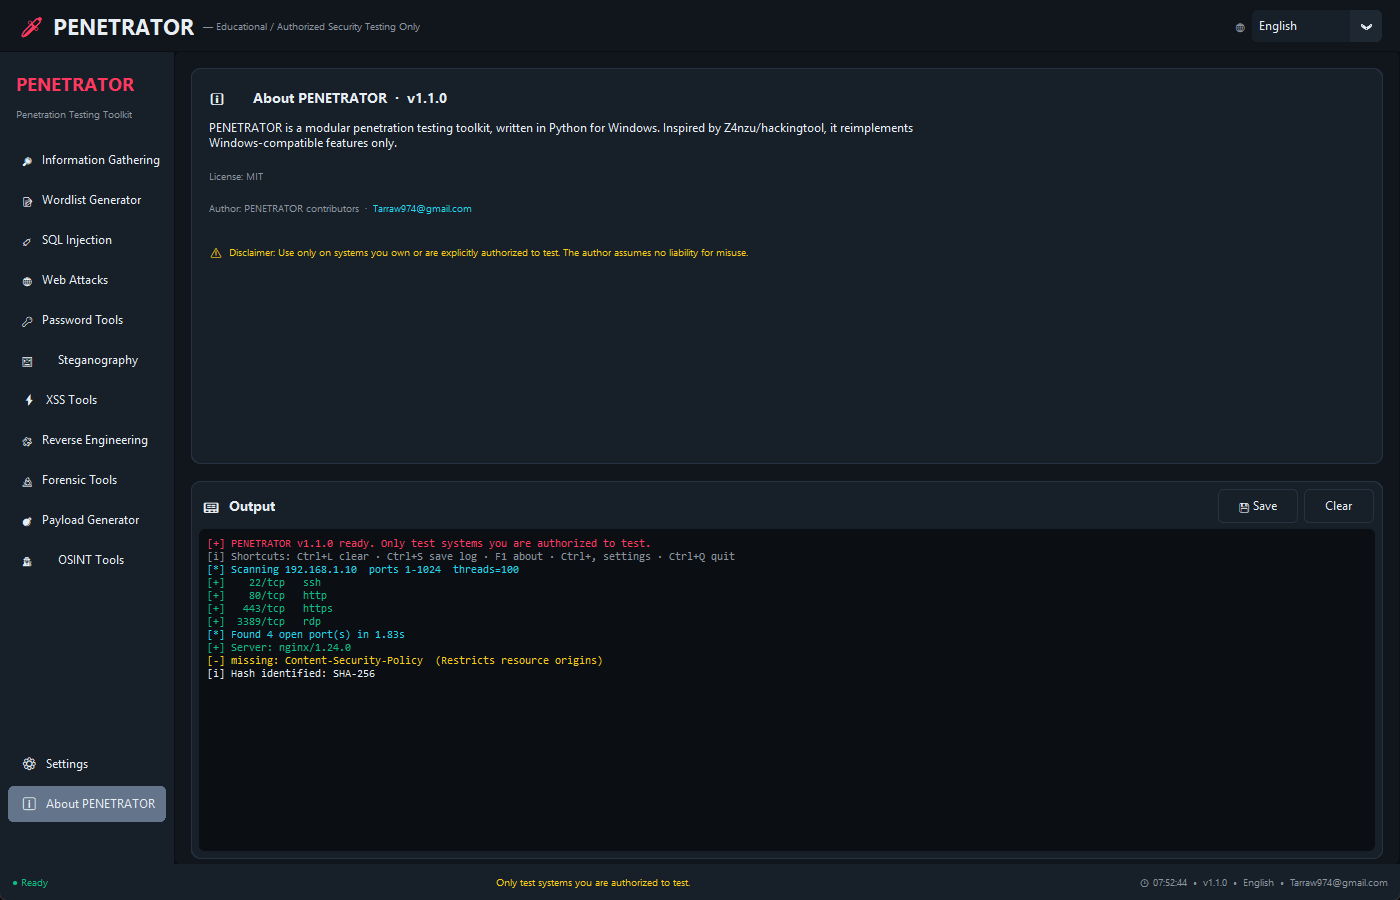
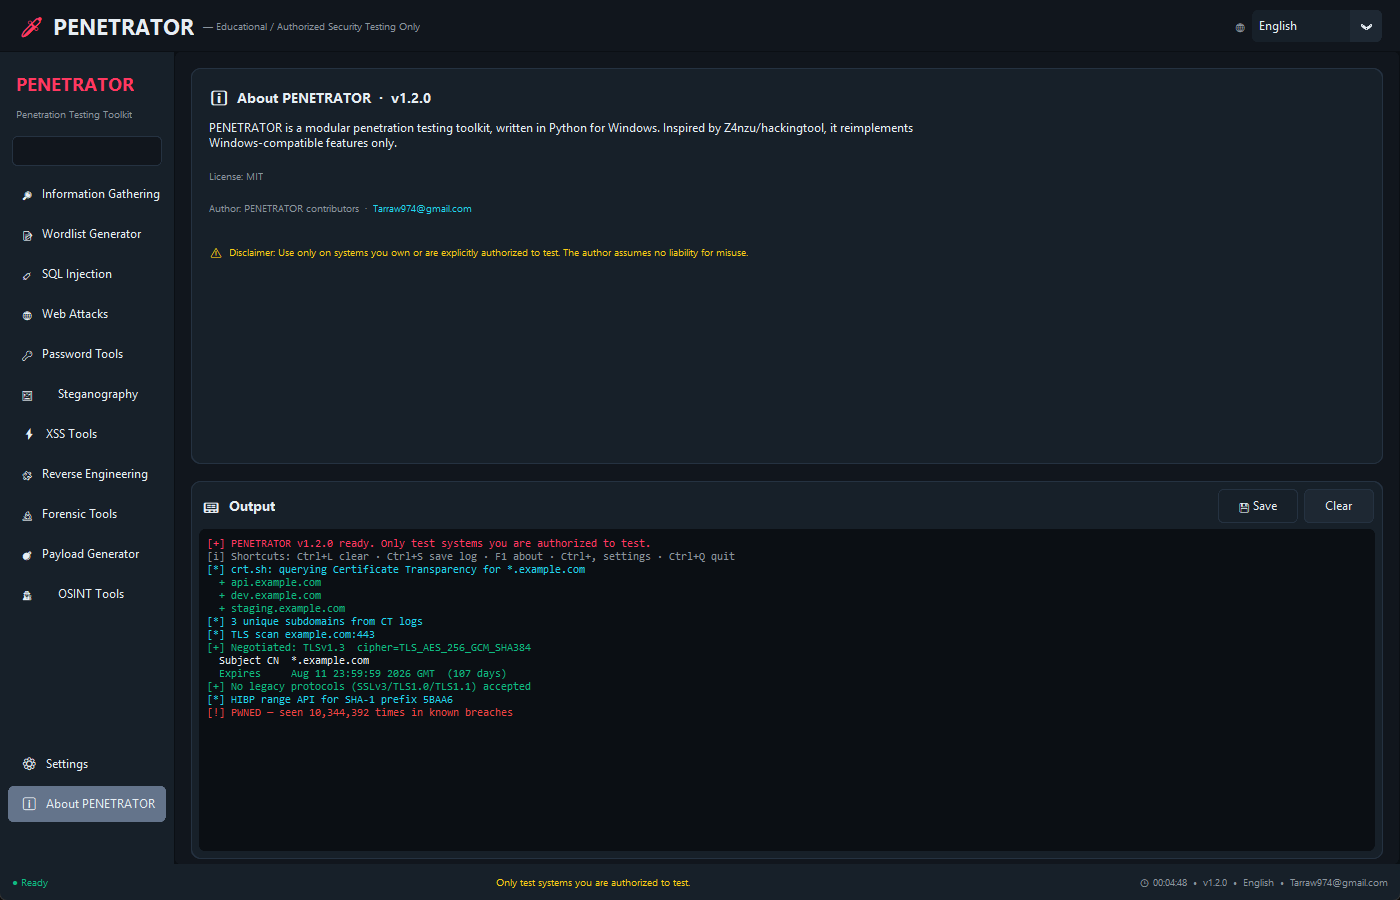
v1.2.0: bump version, refresh screenshots, CHANGELOG
- core/banner.py: VERSION = 1.2.0
- README: 49 tools, 5 languages, refreshed screenshot grid (8 captures
  including new HTTP Repeater + HIBP/JWT password tools)
- CHANGELOG: full v1.2.0 entry covering 7 new tools, 7 UX features,
  ES/DE locales, CI, hygiene

diff --git a/core/banner.py b/core/banner.py
@@ -16,7 +16,7 @@ BANNER = r"""
 |_|   |_____|_| \_|_____| |_| |_| \_\/_/   \_\_| \___/|_| \_\
 """
 
-VERSION = "1.1.0"
+VERSION = "1.2.0"
 AUTHOR = "Tarraw974@gmail.com"
 
 

diff --git a/README.md b/README.md
@@ -4,7 +4,7 @@
 
 <p align="center">
   <strong>The modern Windows-native penetration testing toolkit.</strong><br/>
-  <em>42&nbsp;tools · 11&nbsp;categories · 3&nbsp;langues · 1 interface</em>
+  <em>49&nbsp;tools · 11&nbsp;categories · 5&nbsp;langues · 1 interface</em>
 </p>
 
 <p align="center">
@@ -12,7 +12,7 @@
   <img alt="Python" src="https://img.shields.io/badge/python-3.9%2B-ff3860?style=for-the-badge&labelColor=172029"/>
   <img alt="License" src="https://img.shields.io/badge/license-MIT-22d3ee?style=for-the-badge&labelColor=172029"/>
   <img alt="UI" src="https://img.shields.io/badge/UI-CustomTkinter-a855f7?style=for-the-badge&labelColor=172029"/>
-  <img alt="Languages" src="https://img.shields.io/badge/i18n-EN%20%7C%20FR%20%7C%20%E4%B8%AD%E6%96%87-facc15?style=for-the-badge&labelColor=172029"/>
+  <img alt="Languages" src="https://img.shields.io/badge/i18n-EN%20%7C%20FR%20%7C%20ZH%20%7C%20ES%20%7C%20DE-facc15?style=for-the-badge&labelColor=172029"/>
 </p>
 
 <p align="center">
@@ -30,7 +30,7 @@ A complete, Windows-first Python 3 penetration testing toolkit — **no WSL, no 
 
 Ships with a **dark modern GUI** (CustomTkinter) *and* a Rich-powered **classic CLI**. Both wrap the same internal engine.
 
-> 🇬🇧 English &nbsp;·&nbsp; 🇫🇷 Français &nbsp;·&nbsp; 🇨🇳 中文 — switchable in one click, live.
+> 🇬🇧 English &nbsp;·&nbsp; 🇫🇷 Français &nbsp;·&nbsp; 🇨🇳 中文 &nbsp;·&nbsp; 🇪🇸 Español &nbsp;·&nbsp; 🇩🇪 Deutsch — switchable in one click, live.
 
 ---
 
@@ -119,27 +119,33 @@ EN · FR · 中文 — bascule live, zéro redémarrage.
 <table>
 <tr>
 <td width="50%"><img src="assets/screenshots/02-password-tools.png" alt="Password Tools"/></td>
-<td width="50%"><img src="assets/screenshots/03-osint.png" alt="OSINT"/></td>
-</tr>
-<tr>
-<td align="center"><em>🔑 Password Tools</em></td>
-<td align="center"><em>🕵 OSINT</em></td>
-</tr>
-<tr>
-<td width="50%"><img src="assets/screenshots/04-payload.png" alt="Payload Generator"/></td>
-<td width="50%"><img src="assets/screenshots/05-steganography.png" alt="Steganography"/></td>
-</tr>
-<tr>
-<td align="center"><em>💣 Payload Generator</em></td>
-<td align="center"><em>🖼 Steganography</em></td>
-</tr>
-<tr>
-<td width="50%"><img src="assets/screenshots/07-settings.png" alt="Settings"/></td>
 <td width="50%"><img src="assets/screenshots/06-about.png" alt="About"/></td>
 </tr>
 <tr>
-<td align="center"><em>⚙ Settings — language live-switch</em></td>
+<td align="center"><em>🔑 Password Tools (with HIBP, JWT)</em></td>
 <td align="center"><em>ℹ About</em></td>
+</tr>
+<tr>
+<td width="50%"><img src="assets/screenshots/04-payload.png" alt="Payload Generator"/></td>
+<td width="50%"><img src="assets/screenshots/08-web-attacks.png" alt="Web Attacks (HTTP Repeater)"/></td>
+</tr>
+<tr>
+<td align="center"><em>💣 Payload Generator</em></td>
+<td align="center"><em>🌐 Web Attacks (with HTTP Repeater)</em></td>
+</tr>
+<tr>
+<td width="50%"><img src="assets/screenshots/05-steganography.png" alt="Steganography"/></td>
+<td width="50%"><img src="assets/screenshots/03-osint.png" alt="OSINT"/></td>
+</tr>
+<tr>
+<td align="center"><em>🖼 Steganography</em></td>
+<td align="center"><em>🕵 OSINT</em></td>
+</tr>
+<tr>
+<td colspan="2" align="center"><img src="assets/screenshots/07-settings.png" alt="Settings" width="60%"/></td>
+</tr>
+<tr>
+<td colspan="2" align="center"><em>⚙ Settings — 5 languages, live-switch (EN / FR / ZH / ES / DE)</em></td>
 </tr>
 </table>
 

diff --git a/CHANGELOG.md b/CHANGELOG.md
@@ -7,11 +7,51 @@ and the project adheres to [Semantic Versioning](https://semver.org/spec/v2.0.0.
 
 ## [Unreleased]
 
-### Added
-- GitHub Actions CI: compile + pytest + locale check on every push.
-- Test suite (`tests/`) with 19 functional checks of `gui.engine.*`.
-- `tests/check_locales.py` — verifies every `t()` / `label_key` / `description_key`
-  resolves in EN / FR / ZH.
+## [1.2.0] — 2026-04-26
+
+### Added — Tools (7 new)
+- **crt.sh subdomain enumeration** via Certificate Transparency logs.
+- **Banner grabbing** — port scan + grab service banners on open ports.
+- **TLS / SSL Scanner** — cert chain, expiry, legacy SSLv3 / TLS 1.0 / 1.1 probe.
+- **Subdomain Takeover Detector** — 17 service fingerprints (S3, GitHub Pages,
+  Heroku, Azure, Fastly, Shopify, etc.).
+- **HIBP Pwned Password check** via k-anonymity API (no key needed).
+- **JWT Decoder** + **JWT HMAC brute-force** (HS256/384/512).
+- **HTTP Repeater** — Burp-like custom request sender.
+
+### Added — UX
+- **Stop button** on every tool — cooperative cancellation via
+  `threading.Event` + engine-level `_should_stop()` checks in long loops.
+- **Form memory** — every tool remembers its inputs across launches
+  (passwords and large textareas excluded).
+- **Sidebar search bar** — live-filter categories.
+- **JSON export** of the log console alongside `.txt`.
+- **Completion toast** — Windows toast or bell+flash when a long task (>15s)
+  ends while the window is unfocused.
+- **Auto-updater** — checks GitHub Releases on launch and announces newer
+  versions in the log.
+- **Plugin system** — drop a `.py` file in `plugins/` defining a `PLUGIN`
+  dict, and PENETRATOR loads it into the matching category panel.
+
+### Added — i18n
+- **Spanish (es)** locale — full translation, 244 keys.
+- **German (de)** locale — full translation, 244 keys.
+- 5 supported languages: EN / FR / ZH / ES / DE — live switchable.
+
+### Added — Project hygiene
+- GitHub Actions CI: compile + pytest + locale check on Win 3.10/3.11/3.12.
+- pytest suite (`tests/`) — 21 functional checks of `gui.engine.*`.
+- `tests/check_locales.py` — validates every translation key across all locales.
+- Dependabot config (weekly pip + monthly actions).
+- Issue + PR templates (bug, feature request).
+- `CONTRIBUTING.md` and full `pyproject.toml` (ruff + pytest config).
+- Pre-commit hooks (ruff format + lint + whitespace).
+- Branch protection on `main` (no force-push, no delete).
+
+### Changed
+- 12 hardcoded English strings in `gui/tools.py` moved to `ui.*` i18n keys.
+- `PENETRATOR.spec` now excludes matplotlib / numpy / scipy / jupyter — exe
+  download trimmed by ~30 MB.
 
 ## [1.1.0] — 2026-04-25
 
